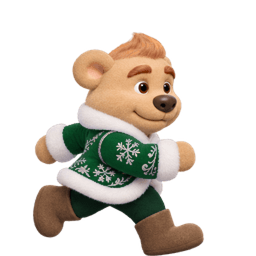
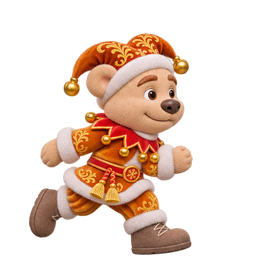
Revert "Лес: персонаж из макета — Пётр в зелёном свитере"
This reverts commit a110ab3617bc41340a8235e6a6eb1f5bd1373dd1.

diff --git a/assets/js/forest.js b/assets/js/forest.js
@@ -3,7 +3,7 @@ function plural(n,a,b,c){n=Math.abs(n)%100;const k=n%10;if(n>10&&n<20)return c;i
 const A={m_star:'assets/img/m_star.webp'};
 const UI_FONT='-apple-system, BlinkMacSystemFont, "Segoe UI", Roboto, Arial, sans-serif';
 /* ===== Игра «Лес» ===== */
-// Медведь (Пётр, старший сын), подарки и препятствия — PNG с прозрачным фоном из папки assets/img/forest/.
+// Медведь (Петр, старший сын), подарки и препятствия — PNG с прозрачным фоном из папки assets/img/forest/.
 // Пока какого-то файла нет, на его месте рисуется прежняя векторная графика — игра работает и без картинок.
 //   bear_run_1.png … bear_run_6.png — кадры бега по кругу
 //   bear_idle.png, bear_jump.png, bear_fall.png, bear_hit.png — стойка до старта, прыжок вверх, падение, столкновение

diff --git a/assets/js/runner.js b/assets/js/runner.js
@@ -74,7 +74,7 @@
   document.addEventListener('keydown',function(e){if(e.code==='KeyP'||e.code==='Escape')pauseNow();});
   document.addEventListener('visibilitychange',function(){if(document.hidden)pauseNow();});
 
-  // пока картинки не загрузились, забег не начинаем: иначе вместо Петра мелькает заглушка
+  // пока картинки не загрузились, забег не начинаем: иначе вместо Бориса мелькает заглушка
   // и само поле до загрузки не показываем
   var stage=document.getElementById('stage');
   stage.classList.add('loading'); bStart.disabled=true; bStart.textContent='Загружаем…';

diff --git a/index.html b/index.html
@@ -12,7 +12,7 @@
 <main class="page">
   <header class="head">
     <h1>Лес</h1>
-    <p>Мешок с подарками порвался, и они рассыпались по тайге. Помоги Петру собрать их: прыгай через сугробы и пни, запрыгивай на брёвна, не проваливайся в ямы.</p>
+    <p>Мешок с подарками порвался, и они рассыпались по тайге. Помоги Борису собрать их: прыгай через сугробы и пни, запрыгивай на брёвна, не проваливайся в ямы.</p>
   </header>
 
   <div class="stage" id="stage">
